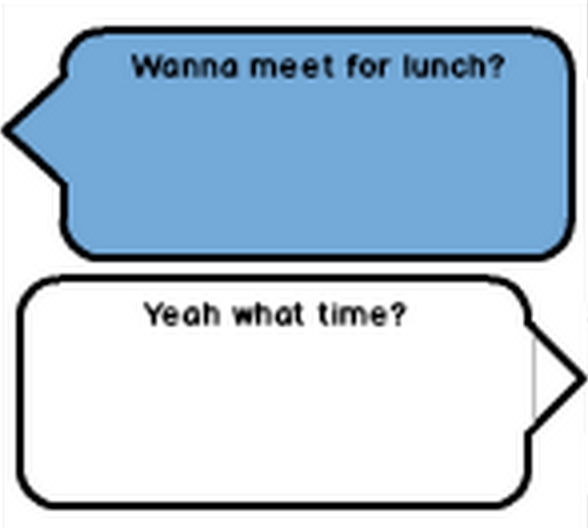
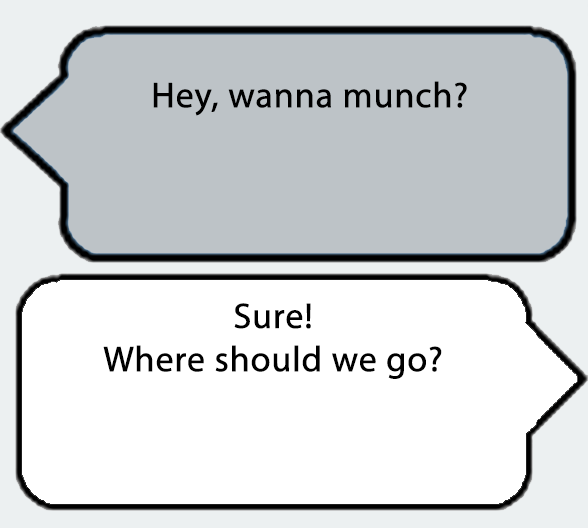
Added in conversations for messages with profile images

diff --git a/jasmine.html b/jasmine.html
@@ -28,12 +28,12 @@
   <header class="bar bar-nav">
       <button class="btn btn-link btn-nav pull-left"><a class="icon icon-left-nav" href="messages.html" data-transition="slide-in"></a></button>
       <button class="btn btn-link btn-nav pull-right"><a class="icon icon-home" href="swipe.html" data-transition="slide-in"></a></button>
-      <h1 class="title">Jasmine, 21</h1>
+      <h1 class="title"><img src="jasmineheader.png" width="auto" height="auto"></img></h1>
   </header> 
 
       <div class="content" align="center">
         <div class="content-padded">
-         
+         <img src="convo3.png" width="100%" height="100%"/>
 
         <!-- <div class="bar bar-standard bar-footer">
           <form>

diff --git a/wendy.html b/wendy.html
@@ -29,12 +29,12 @@
   <header class="bar bar-nav">
       <button class="btn btn-link btn-nav pull-left"><a class="icon icon-left-nav" href="messages.html" data-transition="slide-in"></a></button>
       <button class="btn btn-link btn-nav pull-right"><a class="icon icon-home" href="swipe.html" data-transition="slide-in"></a></button>
-      <h1 class="title">Wendy, 19</h1>
+      <h1 class="title"><img src="wendyheader.png" width="auto" height="auto"></img></h1>
   </header> 
 
       <div class="content" align="center">
         <div class="content-padded">
-          
+          <img src="convo2.png" width="100%" height="100%"/>
 
         
 

diff --git a/abby.html b/abby.html
@@ -28,7 +28,7 @@
   <header class="bar bar-nav">
       <button class="btn btn-link btn-nav pull-left"><a class="icon icon-left-nav" href="messages.html" data-transition="slide-in"></a></button>
       <button class="btn btn-link btn-nav pull-right"><a class="icon icon-home" href="swipe.html" data-transition="slide-in"></a></button>
-      <h1 class="title">Abby, 21</h1>
+      <h1 class="title"><img src="abbyheader.png" width="auto" height="auto"></img></h1>
   </header> 
 
       <div class="content" align="center">
